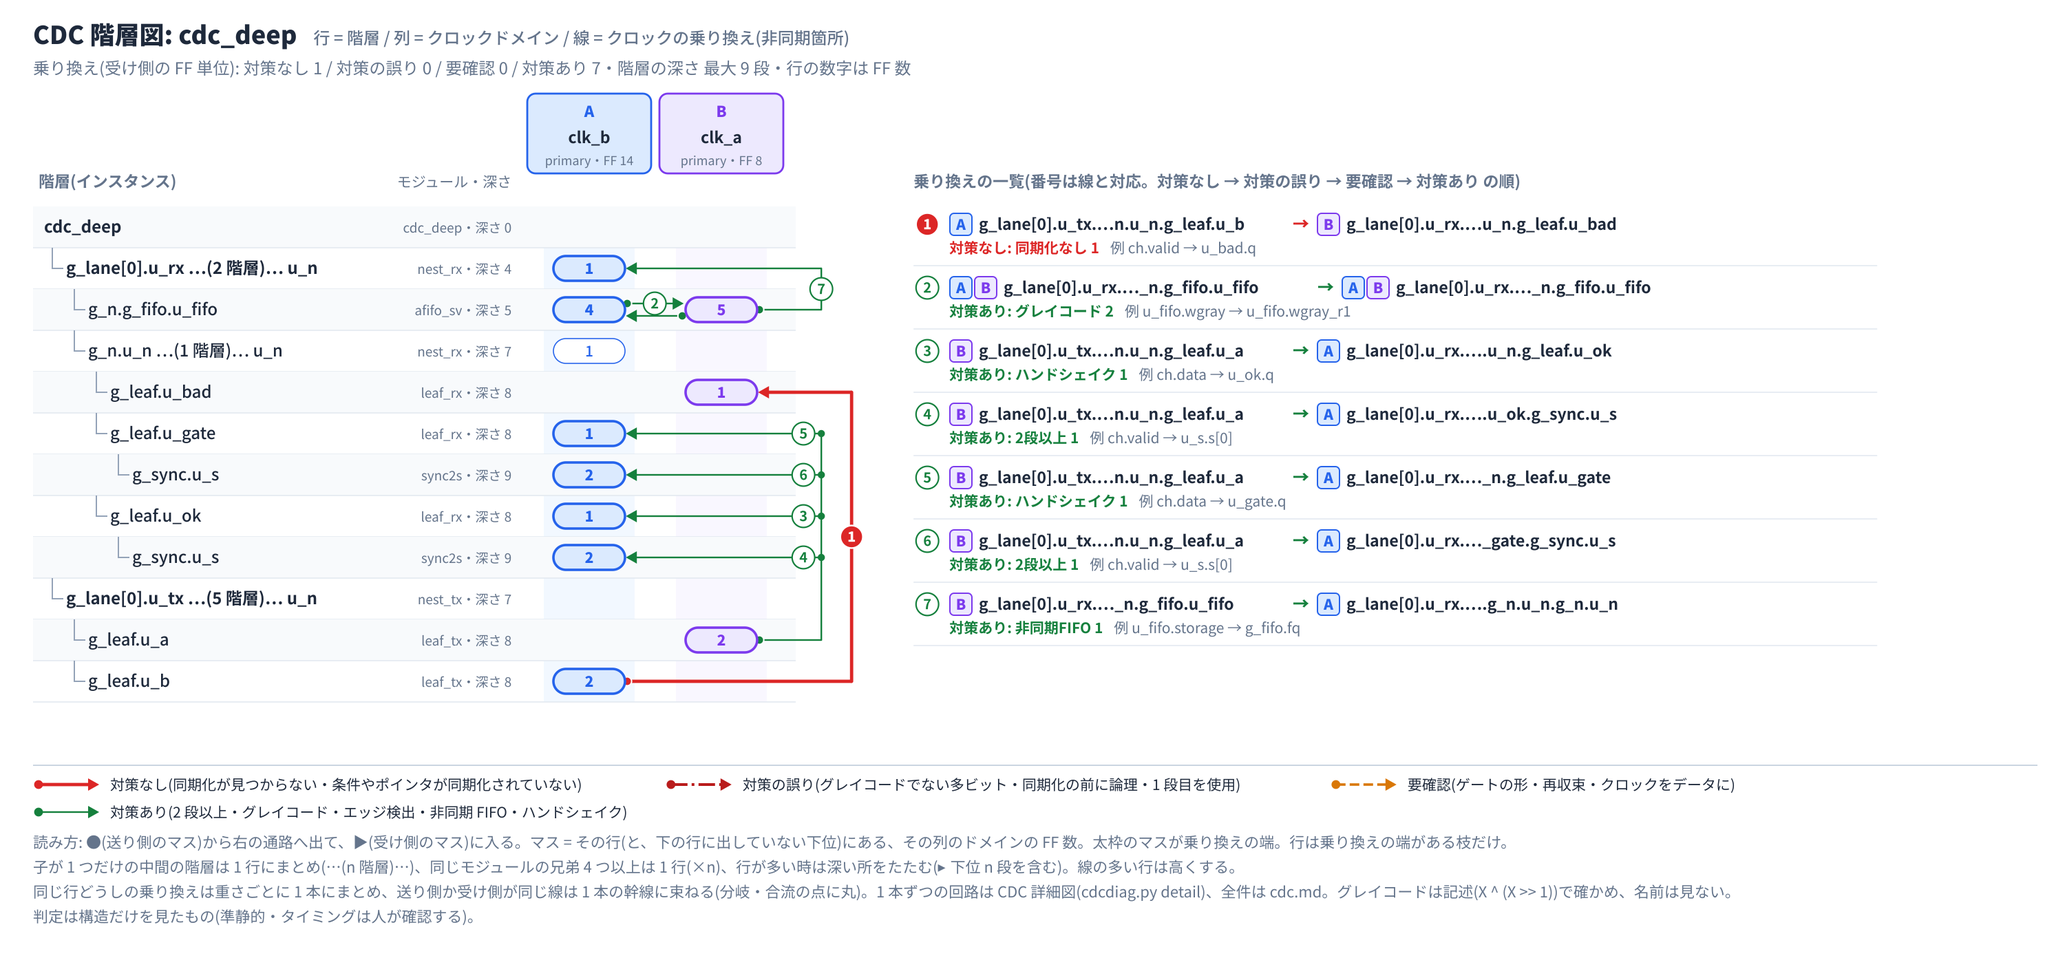
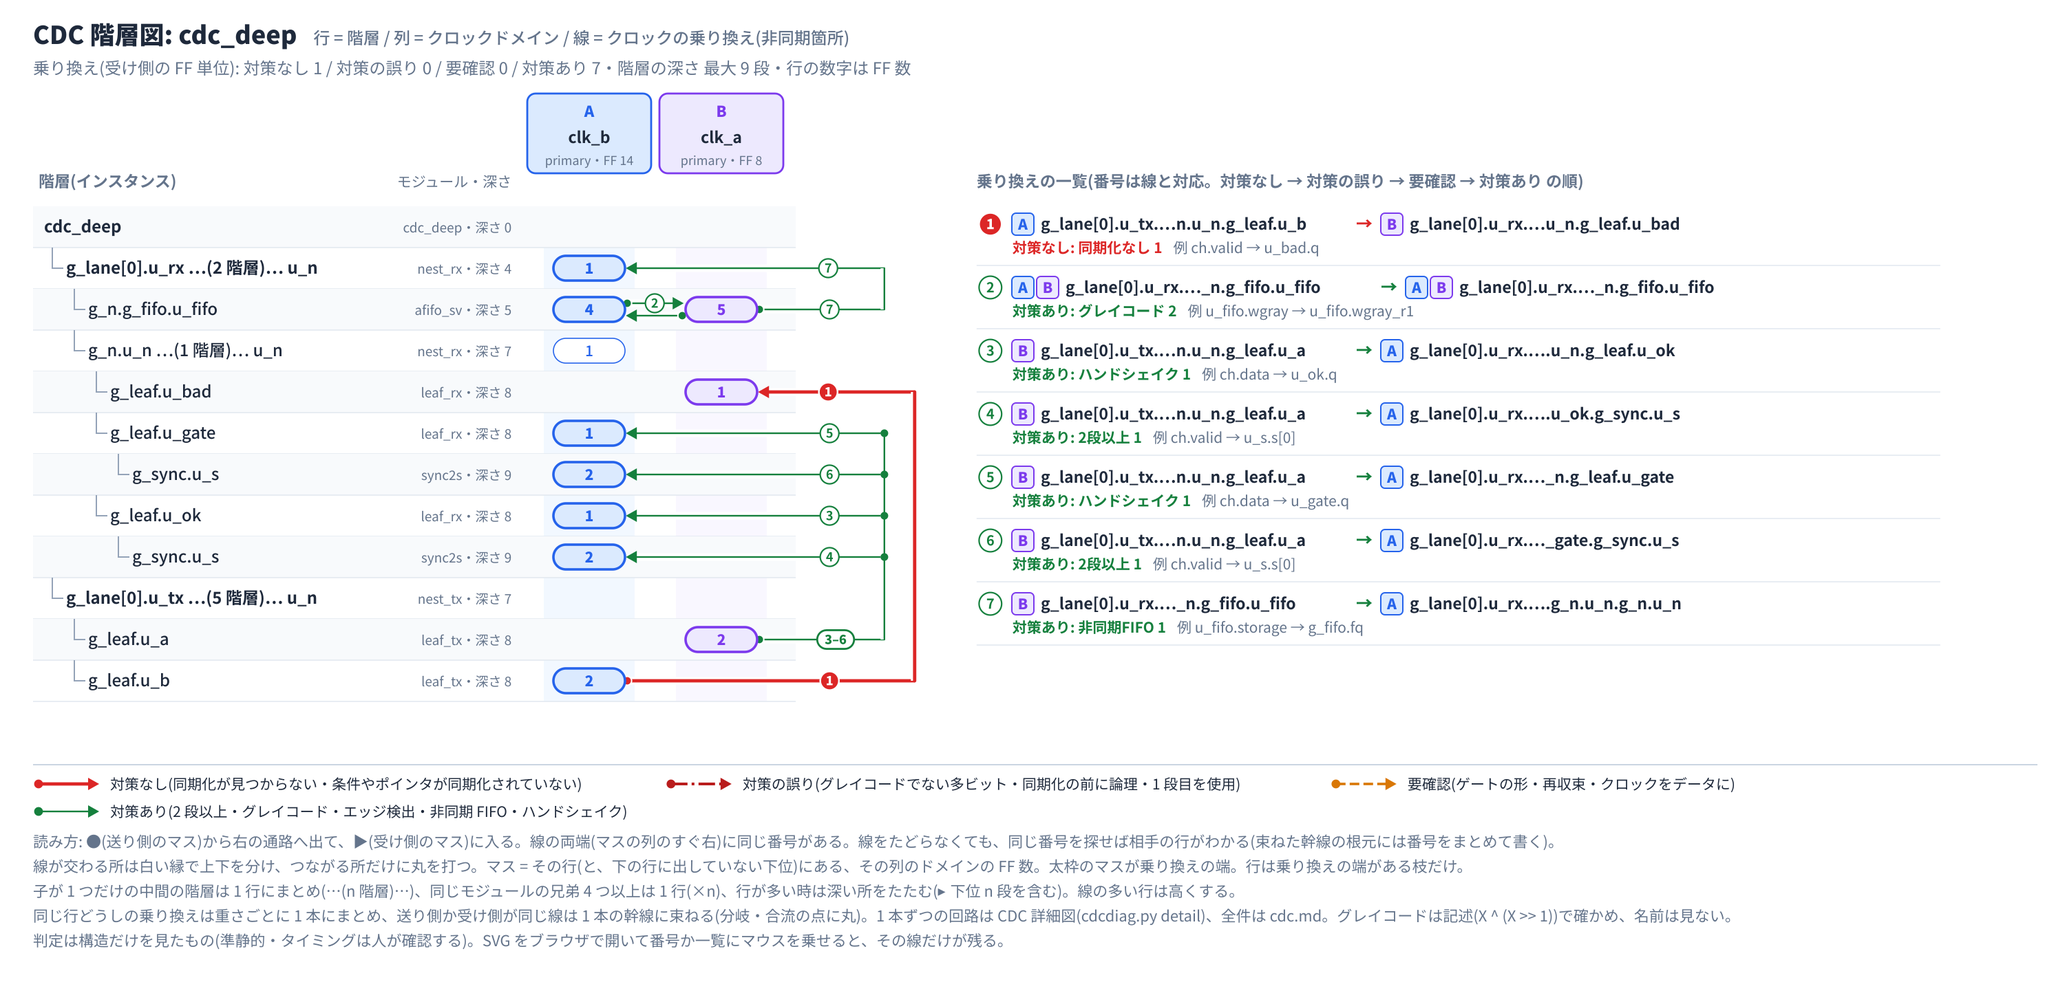
CDC 階層図: 線の両端に同じ番号、交差に白い縁、SVG ではマウスを乗せた線だけ残す
- 番号の帯(マスの列と通路の間)に、線の両端の番号を階段状に置く。幹線の根元には束ねた番号をまとめて書く
- 線に白い縁をつけ、交差の上下を分ける。つながる所だけに丸
- SVG に CSS(:has)を入れ、番号・一覧にマウスを乗せるとその線だけ残す
- R54・GUIDE を更新

Claude-Session: https://claude.ai/code/session_01XXd7JvWVmuTTSSCjMKzXau

diff --git a/scripts/cdcdiag.py b/scripts/cdcdiag.py
@@ -35,12 +35,15 @@ LEG_ITEMS = {"none": "対策なし(同期化が見つからない・条件やポ
              "review": "要確認(ゲートの形・再収束・クロックをデータに)",
              "ok": "対策あり(2 段以上・グレイコード・エッジ検出・非同期 FIFO・ハンドシェイク)"}
 LEG_TEXT = ["読み方: ●(送り側のマス)から右の通路へ出て、▶(受け側のマス)に入る。",
+            "線の両端(マスの列のすぐ右)に同じ番号がある。線をたどらなくても、同じ番号を探せば相手の行がわかる(束ねた幹線の根元には番号をまとめて書く)。",
+            "線が交わる所は白い縁で上下を分け、つながる所だけに丸を打つ。",
             "マス = その行(と、下の行に出していない下位)にある、その列のドメインの FF 数。太枠のマスが乗り換えの端。",
             "行は乗り換えの端がある枝だけ。", "子が 1 つだけの中間の階層は 1 行にまとめ(…(n 階層)…)、同じモジュールの兄弟 4 つ以上は 1 行(×n)、",
             "行が多い時は深い所をたたむ(▸ 下位 n 段を含む)。", "線の多い行は高くする。",
             "同じ行どうしの乗り換えは重さごとに 1 本にまとめ、送り側か受け側が同じ線は 1 本の幹線に束ねる(分岐・合流の点に丸)。",
             "1 本ずつの回路は CDC 詳細図(cdcdiag.py detail)、全件は cdc.md。", "グレイコードは記述(X ^ (X >> 1))で確かめ、名前は見ない。",
-            "判定は構造だけを見たもの(準静的・タイミングは人が確認する)。"]
+            "判定は構造だけを見たもの(準静的・タイミングは人が確認する)。",
+            "SVG をブラウザで開いて番号か一覧にマウスを乗せると、その線だけが残る。"]
 
 
 def sev_of(cls):
@@ -249,13 +252,38 @@ def hier(db, out, focus=None, max_rows=36, max_arcs=28, png=False, name="cdc_hie
                 break
         else:
             lanes.append([(t["lo"], t["hi"])]); t["lane"] = len(lanes) - 1
-    # 行の高さ: 出入りする線(幹線の根元 + 枝)が多い行だけ高くし、線を STEP 刻みで離す
+    # 線の端: 行ごとに、幹線の根元(1 本)と枝(線 1 本ごと)を並べる。通路の内側の順に、上から下・左から右へ階段状に置く
     STEP = 7.0
-    nst = collections.Counter()
+    stubs = collections.defaultdict(list)                 # 行 → [(通路, 番号, 幹線, 線 or None)]
     for t in trunks:
-        nst[t["row"]] += 1
+        stubs[t["row"]].append((t["lane"], 0, t, None))
         for a in t["mem"]:
-            nst[a["rs"] if t["kind"] == "d" else a["rd"]] += 1
+            stubs[a["rs"] if t["kind"] == "d" else a["rd"]].append((t["lane"], a["no"], t, a))
+
+    def numlist(ns):                                      # [1, 2, 3, 7] → "1–3,7"
+        ns, out, k = sorted(ns), [], 0
+        while k < len(ns):
+            j = k
+            while j + 1 < len(ns) and ns[j + 1] == ns[j] + 1:
+                j += 1
+            out.append(str(ns[k]) if j == k else f"{ns[k]}–{ns[j]}" if j > k + 1 else f"{ns[k]},{ns[j]}")
+            k = j + 1
+        return ",".join(out)
+    # 番号の帯(マスの列と通路の間): 線の両端に同じ番号を置く。線をたどらなくても、番号で相手の行がわかる
+    G = 0
+    for r, lst in stubs.items():
+        lst.sort(key=lambda x: (x[0], x[1]))
+        xo = 8
+        for _, _, t, a in lst:
+            if a is None:
+                t["lab"] = numlist([m["no"] for m in t["mem"]])
+                t["gx"], t["gw"] = xo, (16 if len(t["mem"]) == 1 else max(18, wlen(t["lab"]) * 5.6 + 10))
+                xo += t["gw"] + 3
+            else:
+                a["gx"] = xo
+                xo += 19
+        G = max(G, xo + 8)
+    # 行の高さ: 出入りする線が多い行だけ高くし、線を STEP 刻みで離す
     selfn = collections.defaultdict(lambda: [0, 0])       # 同じ行の中の線: 右向き・左向きの本数
     for a in arcs:
         if a["rs"] == a["rd"]:
@@ -263,12 +291,20 @@ def hier(db, out, focus=None, max_rows=36, max_arcs=28, png=False, name="cdc_hie
                 selfn[a["rs"]][0 if col[dc] > col[sc] else 1] += 1
     yy = Y0
     for n in range(len(R)):
-        RHr[n] = max(RH, nst[n] * STEP + 14, 2 * (4.5 + 6 * (max(selfn[n]) - 1)) + 16 if n in selfn else 0)
+        RHr[n] = max(RH, (len(stubs[n]) if n in stubs else 0) * STEP + 14, 2 * (4.5 + 6 * (max(selfn[n]) - 1)) + 16 if n in selfn else 0)
         YT[n], RY[n] = yy, yy + RHr[n] / 2
         yy += RHr[n]
     YB = yy                                               # 行の下端
+    for r, lst in stubs.items():
+        for k, (_, _, t, a) in enumerate(lst):
+            y = RY[r] + (k - (len(lst) - 1) / 2) * STEP
+            if a is None:
+                t["y"] = y
+            else:
+                a["ym"] = y
     LW = 22
-    XL = XA + max(len(lanes), 1) * LW + 34                # 一覧の左端
+    XLN = XA + G                                          # 通路の左端
+    XL = XLN + max(len(lanes), 1) * LW + 34               # 一覧の左端
     LISTW = 700
     W = max(XL + LISTW + 20, 1500)
     EH = 46
@@ -288,6 +324,8 @@ def hier(db, out, focus=None, max_rows=36, max_arcs=28, png=False, name="cdc_hie
     LEGH = nrow * 20 + len(leg_lines) * 18 + 44
     H = max(YB, Y0 + (len(arcs) + (1 if rest else 0)) * EH) + 46 + LEGH
     o = [f'<svg xmlns="http://www.w3.org/2000/svg" viewBox="0 0 {W:.0f} {H:.0f}" font-family="\'Noto Sans JP\',sans-serif">',
+         '<style>.ln{transition:opacity .12s}' + "".join(f'svg:has(.h{a["no"]}:hover) .ln:not(.m{a["no"]}){{opacity:.08}}' for a in arcs)
+         + '</style>',                                    # ブラウザで開いた時: 番号か一覧にマウスを乗せると、その線だけ残す
          '<rect width="100%" height="100%" fill="#fff"/>',
          f'<text x="{X0}" y="32" font-size="18" font-weight="800" fill="{INK}">CDC 階層図: {esc(I[root]["name"] if focus else top)}'
          f'<tspan font-size="12" font-weight="500" fill="{GRAY}" dx="12">行 = 階層 / 列 = クロックドメイン / 線 = クロックの乗り換え(非同期箇所)</tspan></text>']
@@ -329,33 +367,35 @@ def hier(db, out, focus=None, max_rows=36, max_arcs=28, png=False, name="cdc_hie
             o.append(f'<path d="M{x - 10},{y} V{y + RH / 2} H{x - 2}" fill="none" stroke="#94a3b8" stroke-width="1"/>')
         o.append(f'<text x="{x}" y="{y + RH / 2 + 4}" font-size="12" font-weight="{700 if lvl < 2 else 500}" fill="{INK}">{esc(lab)}</text>')
         o.append(f'<text x="{XC - 8}" y="{y + RH / 2 + 4}" font-size="9.5" fill="{GRAY}" text-anchor="end">{esc(mods[n])}</text>')
-    # 線の端の位置: 行ごとに、幹線の根元(1 本)と枝(線 1 本ごと)を上下にずらす
     hot = set()
     for a in arcs:
         for sc, dc in a["pairs"]:
             hot |= {(a["rs"], sc), (a["rd"], dc)}
-    stubs = collections.defaultdict(list)
-    for t in trunks:
-        stubs[t["row"]].append((t["lane"], 0, t, None))
-        for a in t["mem"]:
-            stubs[a["rs"] if t["kind"] == "d" else a["rd"]].append((t["lane"], a["no"], t, a))
-    for r, lst in stubs.items():
-        lst.sort(key=lambda x: (x[0], x[1]))
-        step = STEP
-        for k, (_, _, t, a) in enumerate(lst):
-            y = ry(r) + (k - (len(lst) - 1) / 2) * step
-            if a is None:
-                t["y"] = y
-            else:
-                a["ym"] = y
     PW = 52
     px = lambda d: XC + col[d] * CW + CW / 2 + PW / 2      # マスの右端
-    # 線(マスの下に敷く)。軽いものを先に、重いものを上に
+    def badge(x, y, a, r=8.2):
+        c = SEV[a["sev"]][0]
+        fs = 10 if r >= 8 else 9
+        if a["sev"] == "wrong":                           # 対策の誤り: 四角
+            return (f'<rect x="{x - r:.1f}" y="{y - r:.1f}" width="{2 * r}" height="{2 * r}" rx="2.5" fill="{c}" stroke="#fff" stroke-width="1.2"/>'
+                    f'<text x="{x:.1f}" y="{y + fs * .36:.1f}" font-size="{fs}" font-weight="800" fill="#fff" text-anchor="middle">{a["no"]}</text>')
+        if a["sev"] == "none":                            # 対策なし: 塗りの丸
+            return (f'<circle cx="{x:.1f}" cy="{y:.1f}" r="{r}" fill="{c}" stroke="#fff" stroke-width="1.2"/>'
+                    f'<text x="{x:.1f}" y="{y + fs * .36:.1f}" font-size="{fs}" font-weight="800" fill="#fff" text-anchor="middle">{a["no"]}</text>')
+        return (f'<circle cx="{x:.1f}" cy="{y:.1f}" r="{r}" fill="#fff" stroke="{c}" stroke-width="{1.8 if a["sev"] == "review" else 1.1}"/>'
+                f'<text x="{x:.1f}" y="{y + fs * .36:.1f}" font-size="{fs}" font-weight="700" fill="{c}" text-anchor="middle">{a["no"]}</text>')
+
+    # 線(マスの下に敷く)。軽いものを先に、重いものを上に。線には白い縁をつけ、交差で上下がわかるようにする
+    def seg(d, c, st, cls):
+        return (f'<path d="{d}" fill="none" stroke="#fff" stroke-width="5.5" class="{cls}"/>'
+                f'<path d="{d}" fill="none" stroke="{c}" {st} class="{cls}"/>')
+    marks = []                                            # 番号(線・マスより上に描く)
     selfk = collections.defaultdict(lambda: [0, 0])
     for a in sorted(arcs, key=lambda a: -order[a["sev"]]):
         if a["rs"] != a["rd"]:
             continue
         c, st = SEV[a["sev"]][0], STROKE[a["sev"]]         # 同じ行の中: マスからマスへまっすぐ(右向きは上、左向きは下に 6px 刻み)
+        cls = f'ln m{a["no"]} h{a["no"]}'
         for k, (sc, dc) in enumerate(a["pairs"]):
             right = col[dc] > col[sc]
             kk = selfk[a["rs"]][0 if right else 1]
@@ -363,40 +403,51 @@ def hier(db, out, focus=None, max_rows=36, max_arcs=28, png=False, name="cdc_hie
             y = ry(a["rs"]) + (-4.5 - 6 * kk if right else 4.5 + 6 * kk)
             xs = px(sc) + 2 if right else px(sc) - PW - 2
             xd = px(dc) - PW - 8 if right else px(dc) + 8
-            o.append(f'<path d="M{xs:.1f},{y:.1f} H{xd:.1f}" fill="none" stroke="{c}" {st}/>')
-            o.append(f'<path d="M{xd + (7 if right else -7):.1f},{y:.1f} l{-8 if right else 8},-4.5 v9 z" fill="{c}"/>')
-            o.append(f'<circle cx="{xs:.1f}" cy="{y:.1f}" r="3.2" fill="{c}" stroke="#fff" stroke-width="1"/>')
+            o.append(seg(f"M{xs:.1f},{y:.1f} H{xd:.1f}", c, st, cls))
+            o.append(f'<path d="M{xd + (7 if right else -7):.1f},{y:.1f} l{-8 if right else 8},-4.5 v9 z" fill="{c}" class="{cls}"/>')
+            o.append(f'<circle cx="{xs:.1f}" cy="{y:.1f}" r="3.2" fill="{c}" stroke="#fff" stroke-width="1" class="{cls}"/>')
             if k == 0:                                    # 番号は線の上。同じ行の線どうしで重ならないよう横にずらす
-                a["bx"], a["by"] = (xd - 14 - 18 * kk if right else xd + 14 + 18 * kk), y
-    def src_end(scs, y, lx, c, st):                       # 送り側: 一番左のマスから幹線へ。関係するマスごとに ●
-        o.append(f'<path d="M{px(scs[0]) + 2:.1f},{y:.1f} H{lx:.1f}" fill="none" stroke="{c}" {st}/>')
-        for d in scs:
-            o.append(f'<circle cx="{px(d) + 2:.1f}" cy="{y:.1f}" r="3.2" fill="{c}" stroke="#fff" stroke-width="1"/>')
+                marks.append(f'<g class="{cls}">' + badge((xd - 14 - 18 * kk if right else xd + 14 + 18 * kk), y, a, 6.8) + '</g>')
 
-    def dst_end(dcs, y, lx, c, st):                       # 受け側: 幹線から一番左のマスへ。関係するマスごとに ▶
-        o.append(f'<path d="M{lx:.1f},{y:.1f} H{px(dcs[0]) + 8:.1f}" fill="none" stroke="{c}" {st}/>')
+    def src_end(scs, y, lx, c, st, cls):                  # 送り側: 一番左のマスから幹線へ。関係するマスごとに ●
+        o.append(seg(f"M{px(scs[0]) + 2:.1f},{y:.1f} H{lx:.1f}", c, st, cls))
+        for d in scs:
+            o.append(f'<circle cx="{px(d) + 2:.1f}" cy="{y:.1f}" r="3.2" fill="{c}" stroke="#fff" stroke-width="1" class="{cls}"/>')
+
+    def dst_end(dcs, y, lx, c, st, cls):                  # 受け側: 幹線から一番左のマスへ。関係するマスごとに ▶
+        o.append(seg(f"M{lx:.1f},{y:.1f} H{px(dcs[0]) + 8:.1f}", c, st, cls))
         for d in dcs:
-            o.append(f'<path d="M{px(d) + 1:.1f},{y:.1f} l8,-4.5 v9 z" fill="{c}"/>')
+            o.append(f'<path d="M{px(d) + 1:.1f},{y:.1f} l8,-4.5 v9 z" fill="{c}" class="{cls}"/>')
     bycol = lambda ds: sorted(set(ds), key=lambda d: col[d])
     for t in sorted(trunks, key=lambda t: -order[t["sev"]]):
         c, st = SEV[t["sev"]][0], STROKE[t["sev"]]
-        lx = XA + t["lane"] * LW + LW / 2
-        ys_all = [t["y"]] + [a["ym"] for a in t["mem"]]
-        o.append(f'<path d="M{lx:.1f},{min(ys_all):.1f} V{max(ys_all):.1f}" fill="none" stroke="{c}" {st} stroke-linecap="round"/>')
-        if t["kind"] == "d":
-            dst_end(bycol(dc for a in t["mem"] for _, dc in a["pairs"]), t["y"], lx, c, st)
-        else:
-            src_end(bycol(sc for a in t["mem"] for sc, _ in a["pairs"]), t["y"], lx, c, st)
+        lx = XLN + t["lane"] * LW + LW / 2
+        tcls = "ln " + " ".join(f'm{a["no"]}' for a in t["mem"])       # 幹線: 束ねた線のどれを選んでも残す
+        if len(t["mem"]) == 1:
+            tcls += f' h{t["mem"][0]["no"]}'
         for a in t["mem"]:
+            cls = f'ln m{a["no"]} h{a["no"]}'
             if t["kind"] == "d":
-                src_end(bycol(sc for sc, _ in a["pairs"]), a["ym"], lx, c, st)
+                src_end(bycol(sc for sc, _ in a["pairs"]), a["ym"], lx, c, st, cls)
             else:
-                dst_end(bycol(dc for _, dc in a["pairs"]), a["ym"], lx, c, st)
-            if len(t["mem"]) > 1:
-                o.append(f'<circle cx="{lx:.1f}" cy="{a["ym"]:.1f}" r="2.6" fill="{c}"/>')      # 分岐・合流の点
-            a["bx"], a["by"] = lx - 13, a["ym"]
-        if len(t["mem"]) == 1:                            # 1 本だけ: 番号は縦の線の上
-            t["mem"][0]["bx"], t["mem"][0]["by"] = lx, (t["y"] + t["mem"][0]["ym"]) / 2
+                dst_end(bycol(dc for _, dc in a["pairs"]), a["ym"], lx, c, st, cls)
+            marks.append(f'<g class="{cls}">' + badge(XA + a["gx"] + 9, a["ym"], a, 6.8) + '</g>')       # 枝の端の番号
+        if t["kind"] == "d":
+            dst_end(bycol(dc for a in t["mem"] for _, dc in a["pairs"]), t["y"], lx, c, st, tcls)
+        else:
+            src_end(bycol(sc for a in t["mem"] for sc, _ in a["pairs"]), t["y"], lx, c, st, tcls)
+        ys_all = [t["y"]] + [a["ym"] for a in t["mem"]]
+        o.append(seg(f"M{lx:.1f},{min(ys_all):.1f} V{max(ys_all):.1f}", c, st + ' stroke-linecap="round"', tcls))
+        if len(t["mem"]) > 1:
+            for a in t["mem"]:
+                o.append(f'<circle cx="{lx:.1f}" cy="{a["ym"]:.1f}" r="2.8" fill="{c}" class="ln m{a["no"]}"/>')      # 分岐・合流の点
+            # 幹線の根元: 束ねた線の番号をまとめて書く
+            marks.append(f'<g class="{tcls}"><rect x="{XA + t["gx"]:.1f}" y="{t["y"] - 6.8:.1f}" width="{t["gw"]:.1f}" height="13.6" rx="6.8" '
+                         f'fill="#fff" stroke="{c}" stroke-width="1.4"/><text x="{XA + t["gx"] + t["gw"] / 2:.1f}" y="{t["y"] + 3.3:.1f}" '
+                         f'font-size="9" font-weight="800" fill="{c}" text-anchor="middle">{esc(t["lab"])}</text></g>')
+        else:
+            a = t["mem"][0]
+            marks.append(f'<g class="ln m{a["no"]} h{a["no"]}">' + badge(XA + t["gx"] + 8, t["y"], a, 6.8) + '</g>')
     # マス
     for (r, d), n in cell.items():
         cx = XC + col[d] * CW + CW / 2
@@ -414,23 +465,13 @@ def hier(db, out, focus=None, max_rows=36, max_arcs=28, png=False, name="cdc_hie
                      f'stroke-width="1.8" stroke-dasharray="3 2"/><text x="{cx:.0f}" y="{ry(r) + 4:.0f}" font-size="9.5" '
                      f'font-weight="700" fill="{fg}" text-anchor="middle">{"外" if R[r][0] == OUT else "端子"}</text>')
 
-    def badge(x, y, a, r=8.2):
-        c = SEV[a["sev"]][0]
-        if a["sev"] == "wrong":                           # 対策の誤り: 四角
-            return (f'<rect x="{x - r:.1f}" y="{y - r:.1f}" width="{2 * r}" height="{2 * r}" rx="2.5" fill="{c}" stroke="#fff" stroke-width="1.2"/>'
-                    f'<text x="{x:.1f}" y="{y + 3.6:.1f}" font-size="10" font-weight="800" fill="#fff" text-anchor="middle">{a["no"]}</text>')
-        if a["sev"] == "none":                            # 対策なし: 塗りの丸
-            return (f'<circle cx="{x:.1f}" cy="{y:.1f}" r="{r}" fill="{c}" stroke="#fff" stroke-width="1.2"/>'
-                    f'<text x="{x:.1f}" y="{y + 3.6:.1f}" font-size="10" font-weight="800" fill="#fff" text-anchor="middle">{a["no"]}</text>')
-        return (f'<circle cx="{x:.1f}" cy="{y:.1f}" r="{r}" fill="#fff" stroke="{c}" stroke-width="{1.8 if a["sev"] == "review" else 1.1}"/>'
-                f'<text x="{x:.1f}" y="{y + 3.6:.1f}" font-size="10" font-weight="700" fill="{c}" text-anchor="middle">{a["no"]}</text>')
-    for a in arcs:
-        o.append(badge(a["bx"], a["by"], a))
+    o += marks
     # 一覧
     o.append(f'<text x="{XL}" y="{Y0 - 14}" font-size="11.5" font-weight="700" fill="{GRAY}">乗り換えの一覧(番号は線と対応。対策なし → 対策の誤り → 要確認 → 対策あり の順)</text>')
     for n, a in enumerate(arcs):
         y = Y0 + n * EH
         c = SEV[a["sev"]][0]
+        o.append(f'<g class="ln m{a["no"]} h{a["no"]}"><rect x="{XL}" y="{y}" width="{LISTW}" height="{EH - 4}" fill="#fff" opacity="0"/>')
         o.append(f'<line x1="{XL}" y1="{y + EH - 3}" x2="{XL + LISTW}" y2="{y + EH - 3}" stroke="#e2e8f0" stroke-width="0.8"/>')
         o.append(badge(XL + 10, y + 13, a))
         x = XL + 26
@@ -451,7 +492,7 @@ def hier(db, out, focus=None, max_rows=36, max_arcs=28, png=False, name="cdc_hie
         o.append(f'<text x="{x:.0f}" y="{y + 17}" font-size="11.5" font-weight="700" fill="{INK}">{esc(s2)}</text>')
         br = "・".join(f"{CLASS_S[k]} {v}" for k, v in sorted(a["cnt"].items(), key=lambda kv: (order[sev_of(kv[0])], -kv[1])))
         o.append(f'<text x="{XL + 26}" y="{y + 34}" font-size="10.5" fill="{c}" font-weight="700">{esc(SEV[a["sev"]][1])}: {esc(br if wlen(br) <= 46 else cut(br, 90)[:30] + "…")}'
-                 f'<tspan fill="{GRAY}" font-weight="400" dx="8">例 {esc(cut(tail(a["ex"][0]), 26))} → {esc(cut(tail(a["ex"][1]), 26))}</tspan></text>')
+                 f'<tspan fill="{GRAY}" font-weight="400" dx="8">例 {esc(cut(tail(a["ex"][0]), 26))} → {esc(cut(tail(a["ex"][1]), 26))}</tspan></text></g>')
     if rest:
         y = Y0 + len(arcs) * EH
         rc = collections.Counter(a["sev"] for a in rest)

diff --git a/diagrams/cdc/GUIDE.md b/diagrams/cdc/GUIDE.md
@@ -128,6 +128,11 @@ python3 scripts/gatediag.py render out/cdc_x.yaml -o out/ --png                 
   分岐・合流の点に丸を打つ。幹線は短いものから内側の通路に置く(通路の幅 22px)。
 - 同じ行の中の乗り換えは、マスからマスへまっすぐ(右向きは上、左向きは下に 6px 刻みでずらし、本数が多い行は高さを増やす)。
 - 1 つの行に複数の線が出入りする時は、通路の内側の順に 7px 刻みで上下にずらし、**その行だけ高さを増やす**(高さ = max(30, 線の数 × 7 + 14)px)。ほかの行は 30px のまま。
+- **線を追いやすくする**:
+  - 線の両端に同じ番号を置く。置く場所は、マスの列のすぐ右の「番号の帯」(通路の左)。行の中では通路の内側の順に、左から右へ階段状に並べる。
+    線をたどらなくても、同じ番号を探せば相手の行がわかる。束ねた幹線の根元には、束ねた線の番号をまとめて書く(`3–6`、`10,21,23–28`)。
+  - 線には白い縁(5.5px)をつけ、交わる所で上下が分かれて見えるようにする。つながる所(分岐・合流)にだけ丸を打つ。
+  - SVG をブラウザで開いた時は、番号か一覧の行にマウスを乗せると、その線だけが残る(ほかは薄くなる)。資料に貼る PNG には影響しない。
 - 線は重い順・件数の多い順に番号を振り、`--arcs`(既定 28)本まで描く。残りは一覧の最後に組数だけ書く。`--sev` で描く重さを絞れる。
 
 **一覧(右)**: 番号ごとに 2 行。「[ドメインの記号…] 送り側の行 → [記号…] 受け側の行」と「重さ: 分類ごとの件数(受け側の FF 単位)・例の信号」。
